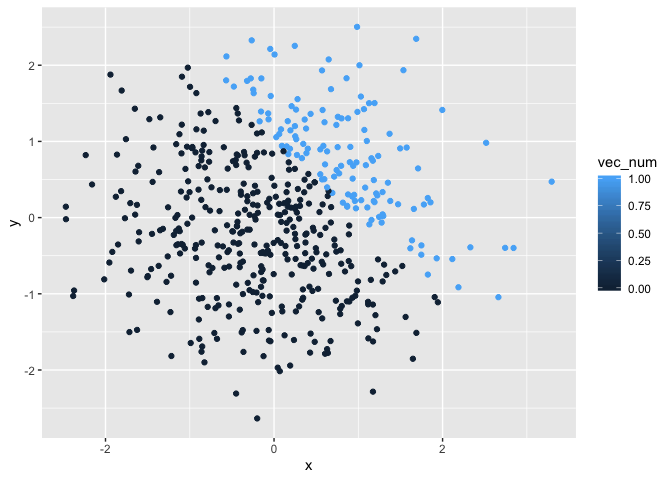
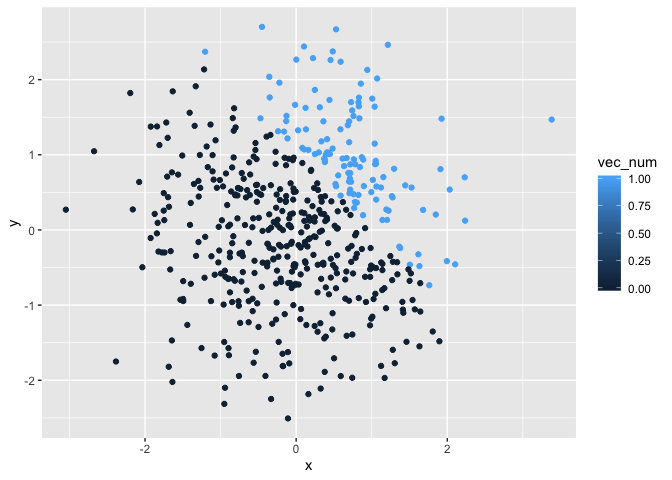
Some minor changes in formatting

diff --git a/p8105_hw1_Ec3342.md b/p8105_hw1_Ec3342.md
@@ -40,13 +40,13 @@ first_df = tibble(
 mean(pull(first_df,norm_samp)) 
 ```
 
-    ## [1] 0.5291278
+    ## [1] 0.05537915
 
 ``` r
 mean(pull(first_df,vec_log))
 ```
 
-    ## [1] 0.625
+    ## [1] 0.75
 
 ``` r
 mean(pull(first_df,vec_char))
@@ -112,8 +112,8 @@ vector into numeric and then multiplied that with the random
 as.numeric(pull(first_df,vec_log))*(pull(first_df,norm_samp))
 ```
 
-    ## [1] 0.0000000 2.5881508 2.6429671 0.0000000 0.5583970 0.0230504 1.4216900
-    ## [8] 0.0000000
+    ## [1] 0.00000000 0.57756104 0.15233551 0.93073594 0.80882702 0.00000000
+    ## [7] 0.39965871 0.09491485
 
 ``` r
 as.factor(pull(first_df,vec_log))*(pull(first_df,norm_samp))
@@ -128,8 +128,8 @@ as.factor(pull(first_df,vec_log))*(pull(first_df,norm_samp))
 as.numeric(as.factor(pull(first_df,vec_log)))*(pull(first_df,norm_samp))
 ```
 
-    ## [1] -1.53611882  5.17630155  5.28593425 -1.22138420  1.11679406  0.04610081
-    ## [7]  2.84337993 -0.24372967
+    ## [1] -1.9041856  1.1551221  0.3046710  1.8614719  1.6176540 -0.6168143
+    ## [7]  0.7993174  0.1898297
 
 # Question 2
 
@@ -157,10 +157,10 @@ vec_fac = as.factor(vec_log2)
 ## Description of the dataframe
 
   - The size of the dataframe is 500 and the number of columns are 5
-  - The mean of x is 0.0218561
-  - The median of x is 0.0440245
-  - The standard deviation of x is 0.9589419
-  - The proportion of cases for which x + y \> 1 is 0.266
+  - The mean of x is -0.0051375
+  - The median of x is 0.0135249
+  - The standard deviation of x is 0.9410424
+  - The proportion of cases for which x + y \> 1 is 0.24
 
 ## Scatterplot
 
@@ -185,14 +185,15 @@ ggplot(second_df, aes(x = x, y = y, color = vec_num)) + geom_point()
 ggplot(second_df, aes(x = x, y = y, color = vec_fac)) + geom_point() 
 ```
 
-![](p8105_hw1_Ec3342_files/figure-gfm/scatterplot-3.png)<!-- --> \# The
-first scatterplot that color points using the logical variable has two
-colors: Red represents False and Turquiose represents True. The second
-scatterplot that color points using the numeric variable has two colors:
-Light blue represents larger numbers and dark blue represents smaller
-numbers. The third scatterplot that color points using the factor
-variable has two colors: Red represents False and Turquiose represents
-True.
+![](p8105_hw1_Ec3342_files/figure-gfm/scatterplot-3.png)<!-- -->
+
+\#The first scatterplot that color points using the logical variable has
+two colors: Red represents False and Turquiose represents True. The
+second scatterplot that color points using the numeric variable has two
+colors: Light blue represents larger numbers and dark blue represents
+smaller numbers. The third scatterplot that color points using the
+factor variable has two colors: Red represents False and Turquiose
+represents True.
 
 \#Exporting the first scatterplot to my project
 directory.
